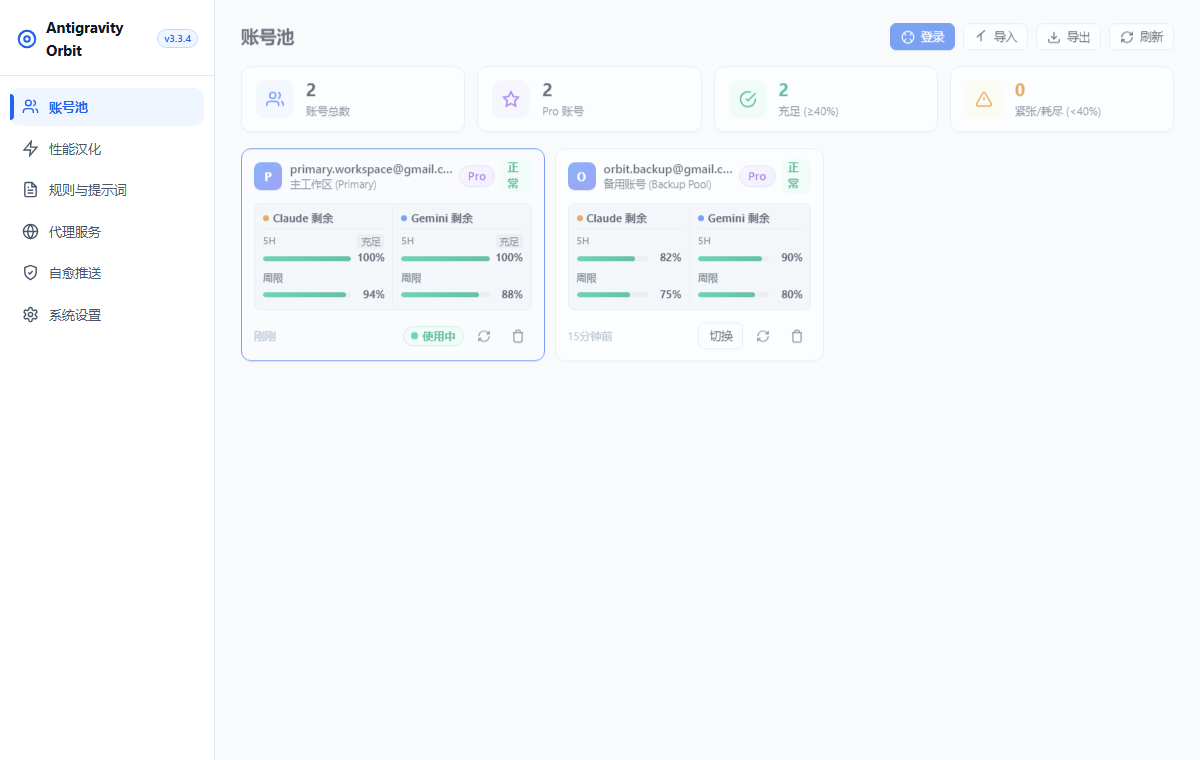
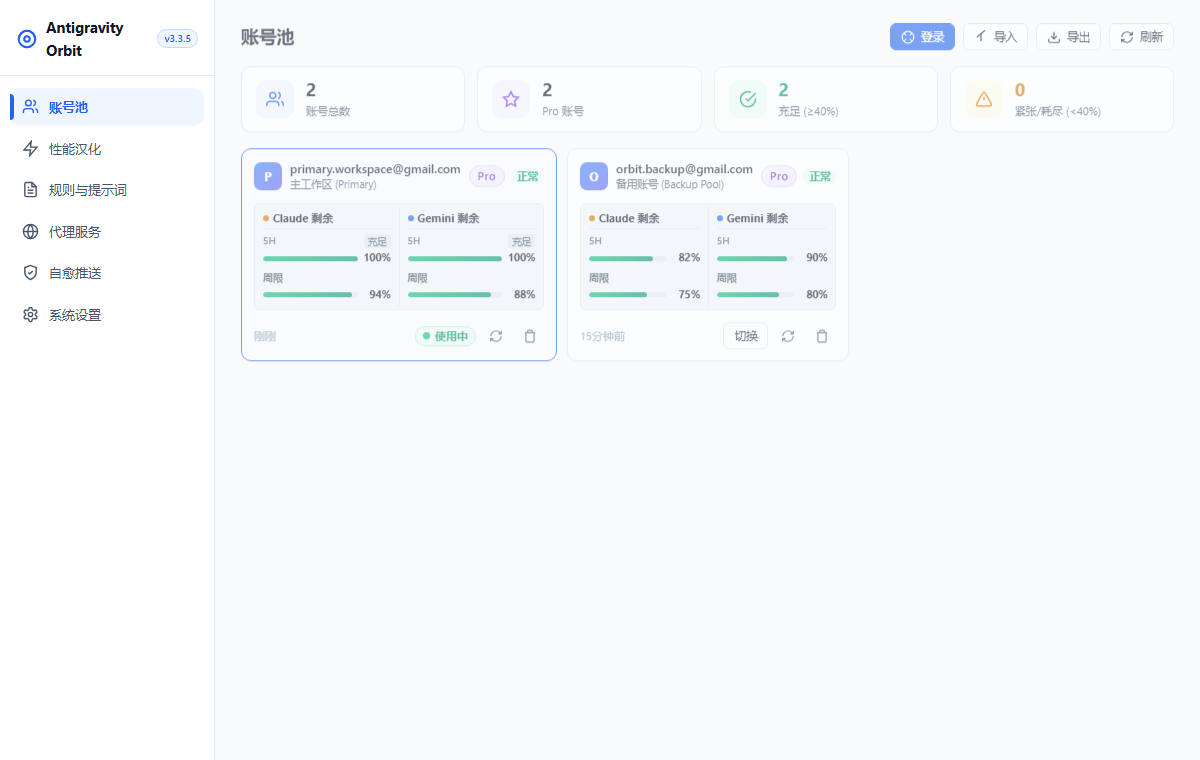
fix: enforce single-line no-wrap on account card header badges and bump version to v3.3.5

diff --git a/core/web/index.html b/core/web/index.html
@@ -7,7 +7,7 @@
   <meta http-equiv="Expires" content="0">
   <meta name="viewport" content="width=device-width, initial-scale=1.0">
   <title>Antigravity Orbit</title>
-  <link rel="stylesheet" href="app.css?v=3.3.4">
+  <link rel="stylesheet" href="app.css?v=3.3.5">
 </head>
 <body>
 
@@ -22,7 +22,7 @@
             <circle cx="12" cy="12" r="3"/>
           </svg>
           <span class="brand-title">Antigravity Orbit</span>
-          <span class="badge-version">v3.3.4</span>
+          <span class="badge-version">v3.3.5</span>
         </div>
       </div>
 
@@ -815,7 +815,7 @@
               <div class="row-info">
                 <div class="row-title" style="display: flex; align-items: center; gap: 8px;">
                   <span>Antigravity Orbit</span>
-                  <span class="badge-version">v3.3.4</span>
+                  <span class="badge-version">v3.3.5</span>
                 </div>
                 <div class="row-desc" style="margin-top: 6px;">
                   全自动化 Antigravity 账号池管理、深度性能补丁、多语言界面本地化与任务自愈平台。
@@ -1025,6 +1025,6 @@
   <!-- 浮动无感 Toast 容器 -->
   <div class="toast-container" id="toast-container"></div>
 
-  <script src="app.js?v=3.3.4"></script>
+  <script src="app.js?v=3.3.5"></script>
 </body>
 </html>

diff --git a/core/web/app.css b/core/web/app.css
@@ -382,6 +382,8 @@ body {
   border-radius: var(--radius-full);
   font-size: 11px;
   font-weight: 600;
+  white-space: nowrap;
+  flex-shrink: 0;
 }
 
 .badge-plan {
@@ -593,7 +595,7 @@ body {
   display: flex;
   align-items: center;
   justify-content: space-between;
-  gap: 6px;
+  gap: 8px;
 }
 
 .account-card-user {
@@ -601,6 +603,16 @@ body {
   align-items: center;
   gap: 8px;
   overflow: hidden;
+  min-width: 0;
+  flex: 1;
+}
+
+.account-card-badges {
+  display: flex;
+  align-items: center;
+  gap: 6px;
+  flex-shrink: 0;
+  white-space: nowrap;
 }
 
 .account-card-avatar {
@@ -1101,11 +1113,16 @@ input:checked + .slider:before {
 
 /* 状态标签 */
 .status-tag {
-  display: inline-block;
+  display: inline-flex;
+  align-items: center;
+  justify-content: center;
   padding: 1px 6px;
   border-radius: var(--radius-sm);
   font-size: 10.5px;
   font-weight: 600;
+  white-space: nowrap;
+  flex-shrink: 0;
+  line-height: 1.4;
 }
 .status-online { background: #ecfdf5; color: #059669; }
 .status-offline { background: var(--bg-subtle); color: var(--text-dim); }

diff --git a/core/web/app.js b/core/web/app.js
@@ -1,5 +1,5 @@
 /**
- * Antigravity Orbit - 现代桌面核心控制器 (v3.3.4)
+ * Antigravity Orbit - 现代桌面核心控制器 (v3.3.5)
  * 实时自动保存、Google OAuth 网页授权、Claude 与 Gemini 双列配额看板、
  * 后台自动定时刷新与无感切号。
  */
@@ -523,7 +523,7 @@ function renderAccountPool() {
               <div class="account-card-name">${acc.name || 'Antigravity 用户'}</div>
             </div>
           </div>
-          <div style="display: flex; align-items: center; gap: 6px;">
+          <div class="account-card-badges">
             <span class="badge badge-plan ${badgeClass}">${formatTierShort(tier)}</span>
             ${statusBadge}
           </div>

diff --git a/scripts/installer_template.py b/scripts/installer_template.py
@@ -15,7 +15,7 @@ from pathlib import Path
 
 DEFAULT_INSTALL_DIR = Path.home() / "AppData" / "Local" / "Programs" / "Antigravity-Orbit"
 APP_NAME = "Antigravity Orbit"
-APP_VERSION = "3.3.4"
+APP_VERSION = "3.3.5"
 APP_PUBLISHER = "Antigravity Team"
 EXE_NAME = "Antigravity-Orbit.exe"
 

diff --git a/README.md b/README.md
@@ -2,7 +2,7 @@
 
 <p align="center">
   <img src="https://img.shields.io/badge/Platform-Windows%2010%20%2F%2011%20x64-0078D6?style=for-the-badge&logo=windows&logoColor=white" alt="Windows 10/11 x64" />
-  <img src="https://img.shields.io/badge/Release-v3.3.4-10B981?style=for-the-badge&logo=github&logoColor=white" alt="Release v3.3.4" />
+  <img src="https://img.shields.io/badge/Release-v3.3.5-10B981?style=for-the-badge&logo=github&logoColor=white" alt="Release v3.3.5" />
   <img src="https://img.shields.io/badge/Antigravity-2.0+-FF6F00?style=for-the-badge" alt="Antigravity 2.0+" />
   <img src="https://img.shields.io/badge/License-MIT-blue.svg?style=for-the-badge" alt="License MIT" />
 </p>
